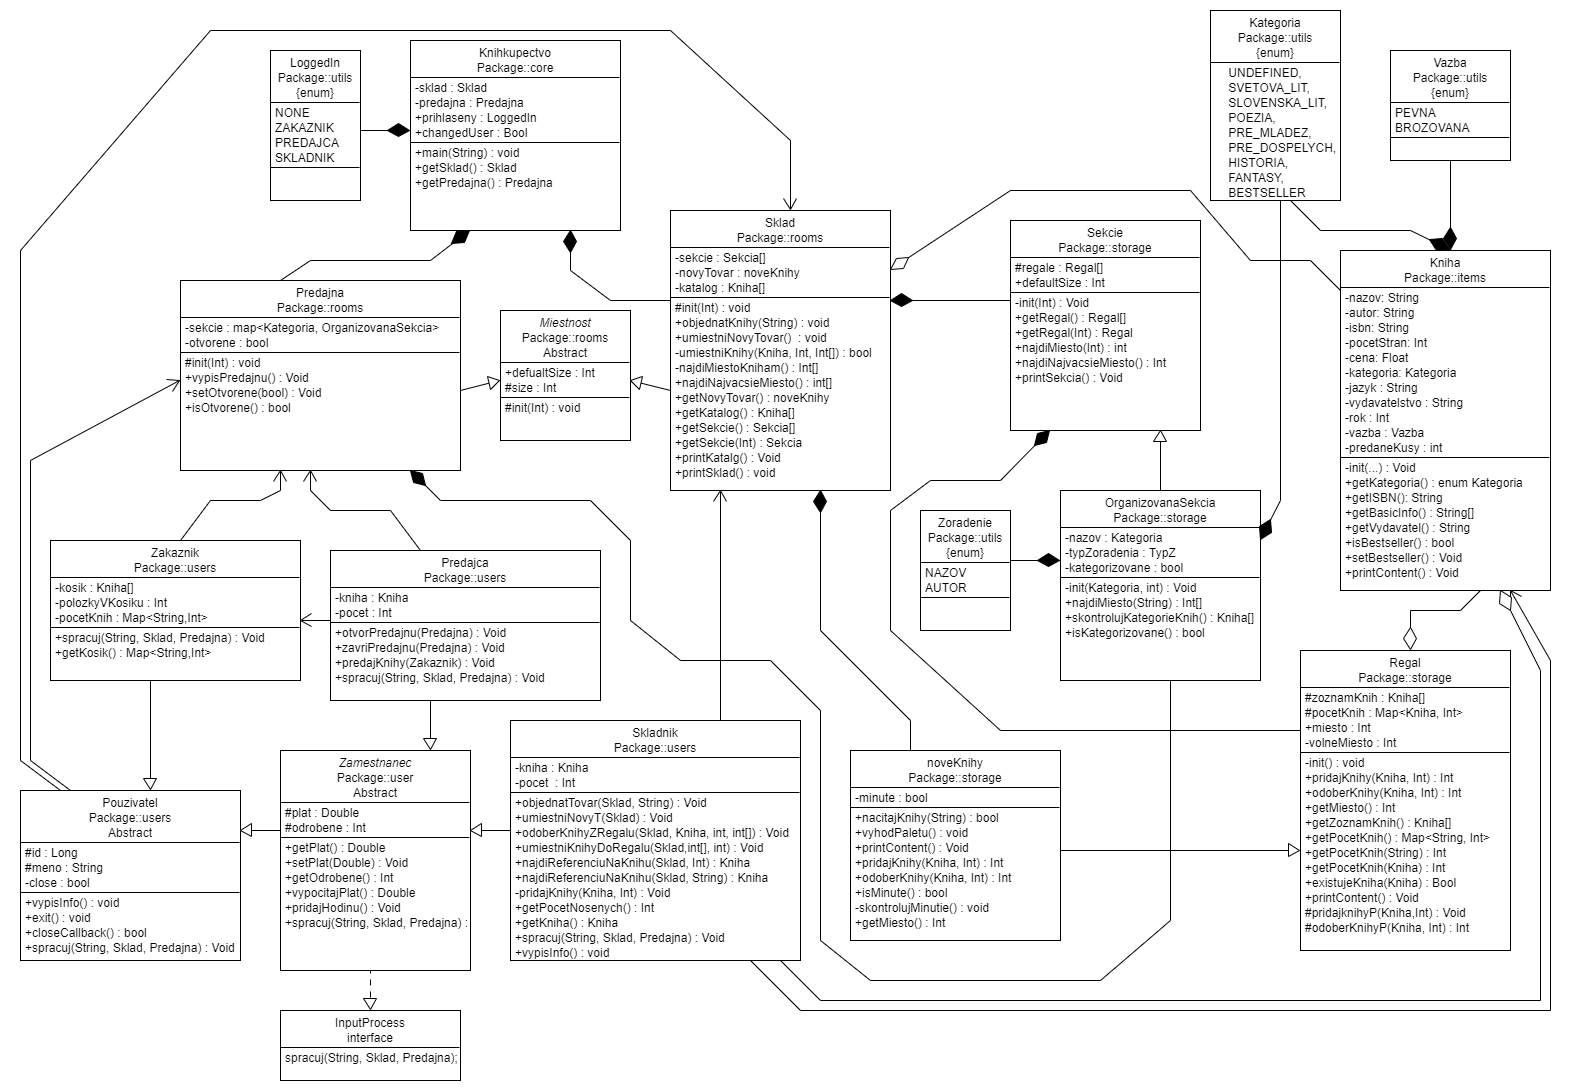
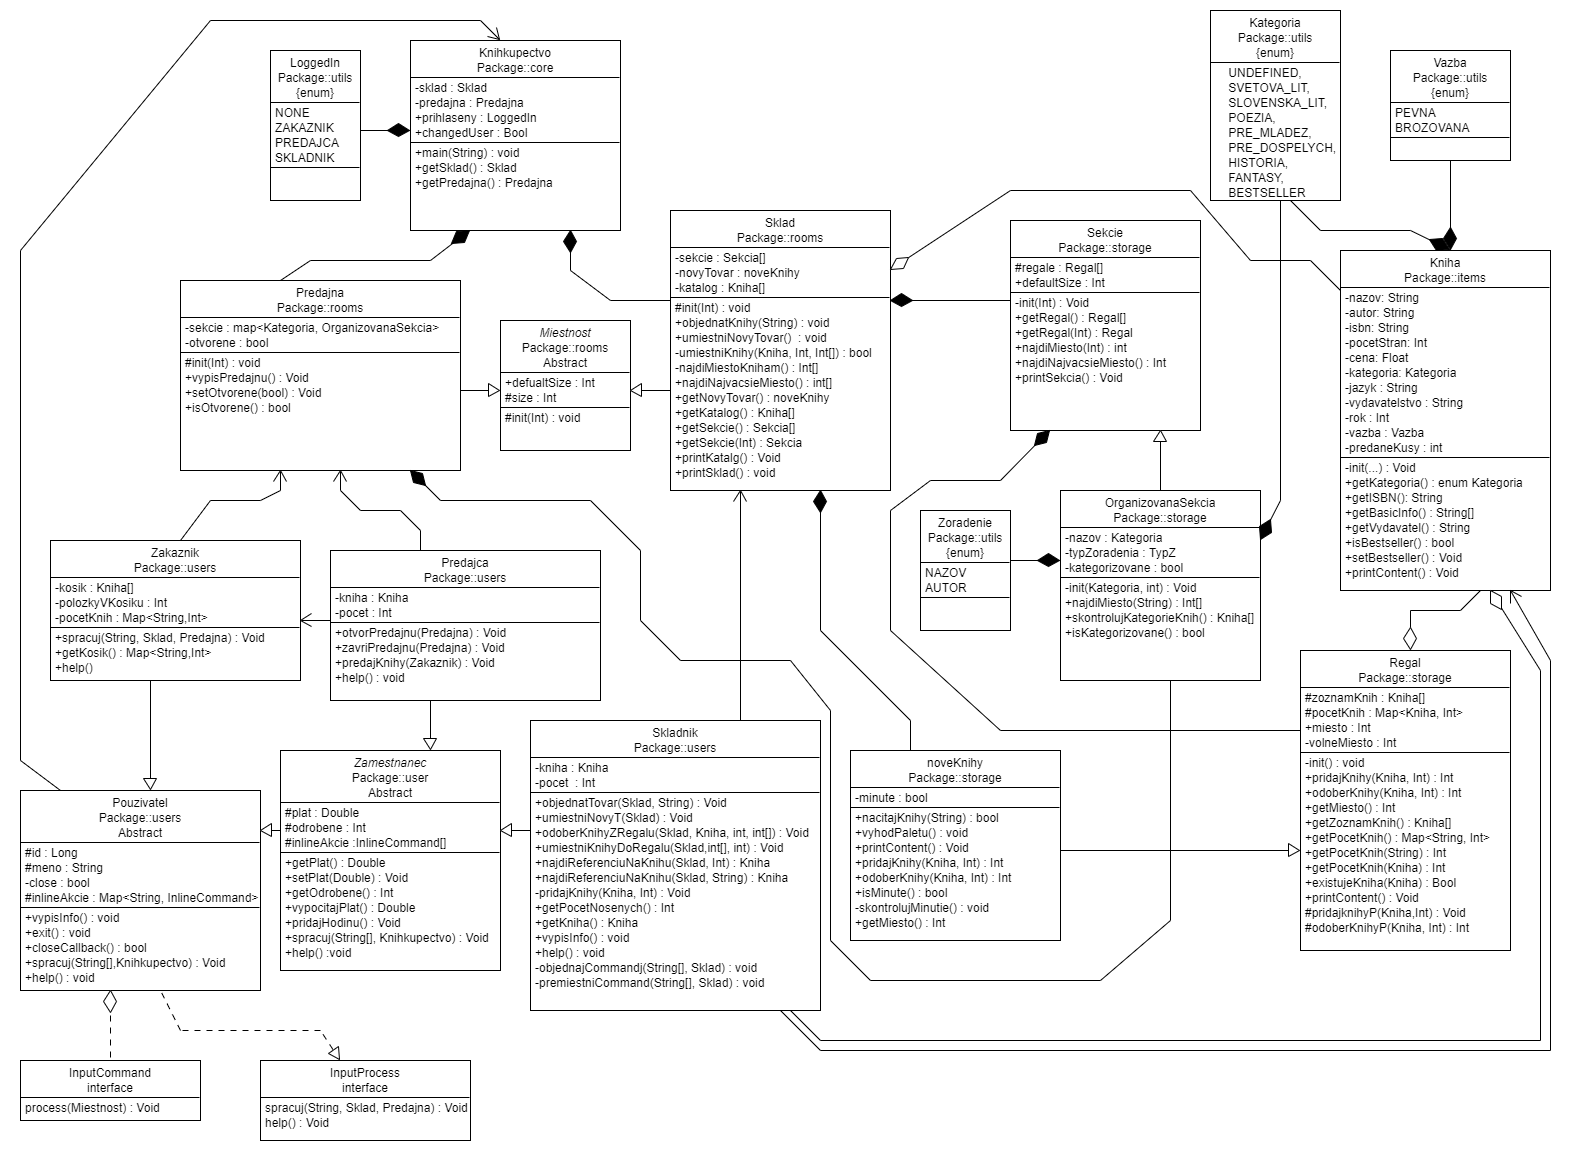
updated

diff --git a/src/junas/robert/minerva/core/users/Predajca.java b/src/junas/robert/minerva/core/users/Predajca.java
@@ -3,6 +3,8 @@ package junas.robert.minerva.core.users;
 import junas.robert.minerva.core.Knihkupectvo;
 import junas.robert.minerva.core.items.Kniha;
 import junas.robert.minerva.core.rooms.Predajna;
+import junas.robert.minerva.core.rooms.Sklad;
+import junas.robert.minerva.core.utils.InlineCommand;
 
 public class Predajca extends Zamestnanec{
     private Kniha kniha;
@@ -16,6 +18,9 @@ public class Predajca extends Zamestnanec{
         inlineAkcie.put("otvor", (args, kh) -> otvorPredajnu(kh.getPredajna()));
         inlineAkcie.put("zavri", (args, kh)-> zavriPredajnu(kh.getPredajna()));
         inlineAkcie.put("predajna", (args, kh) -> kh.getPredajna().vypisPredajnu());
+        inlineAkcie.put("sklad", (args, kh) -> kh.getSklad().printSklad());
+        inlineAkcie.put("predaj", (args,kh)->  predajKnihy(kh.getPredajna().getZakaznik()));
+        inlineAkcie.put("prines", ((args, kh) -> prines(args,kh)));
     }
 
     public void otvorPredajnu(Predajna p){
@@ -27,17 +32,43 @@ public class Predajca extends Zamestnanec{
     }
 
     public void predajKnihy(Zakaznik z) {
-
+        if(z.getKosik().isEmpty()){
+            System.out.println("Zakaznik nema nic v kosiku");
+            return;
+        }
+        for(Kniha k : z.getKosik()){
+            int p = z.getPocetKnih(k.getISBN());
+            k.predaj(p);
+            z.odoberKnihy(k,p);
+            System.out.println("Zakaznik si kupil: " + k.getBasicInfo()[0] + " ["+p+ "] ["+ p*k.getCena()+ "]");
+        }
     }
 
-@Override
+    @Override
     public void help(){
         super.help();
         System.out.println("---Prikazy predajcu---");
         System.out.println("otvor - otvor predajnu");
         System.out.println("zatvor - zavri predajnu");
         System.out.println("predajna - vypis predajnu");
+        System.out.println("sklad - vypis sklad");
+        System.out.println("predaj - preda knihy v kosiku zakaznika");
     }
 
 
+    private void prines(String[] args, Knihkupectvo kh){
+        int[] zober = new int[] {-1,-1};
+        int[] umiestni = new int[] {-1,-1};
+        int p = -1;
+        Kniha k = null;
+        for(String f : args){
+            if(f.contains("i/")){
+                k = najdReferenciuNaKnihu(kh.getSklad(), Integer.parseInt(f.substring(2)));
+            }else if(f.contains("s/")){
+                k = najdReferenciuNaKnihu(kh.getSklad(), f.replaceAll("_", " ").substring(2));
+            }else if(f.contains("/")){
+                p = Integer.parseInt(f.substring(1));
+            }
+        }
+    }
 }

diff --git a/src/junas/robert/minerva/core/users/Skladnik.java b/src/junas/robert/minerva/core/users/Skladnik.java
@@ -17,9 +17,15 @@ public class Skladnik extends Zamestnanec{
 
         inlineAkcie.put("sklad", ((args, kh) -> kh.getSklad().printSklad()));
         inlineAkcie.put("n-umiestni", (args, kh) -> umiestniNovyT(kh.getSklad()));
-        inlineAkcie.put("info-n", (args, kh) -> {if( (kh.getSklad()).getNovyTovar() != null) {  (kh.getSklad()).getNovyTovar().printContent(); }});
+        inlineAkcie.put("info-n", (args, kh) -> {
+            if( (kh.getSklad()).getNovyTovar() != null) {
+                (kh.getSklad()).getNovyTovar().printContent();
+            }});
         inlineAkcie.put("katalog", (args, kh) -> (kh.getSklad()).printKatalog());
-        inlineAkcie.put("objednaj", ((args, kh) -> objednaj(args,kh.getSklad())));
+        inlineAkcie.put("objednaj", ((args, kh) -> {
+            objednaj(args,kh.getSklad());
+            kh.getPredajna().setKatalog(kh.getSklad().getKatalog());
+        }));
         inlineAkcie.put("premiestni", ((args, kh) -> premiestni(args,kh.getSklad())));
 
     }
@@ -65,20 +71,6 @@ public class Skladnik extends Zamestnanec{
         if(this.pocet == 0) kniha = null;
     }
 
-
-    public Kniha najdReferenciuNaKnihu(Sklad s, int i){
-        return s.getKatalog().get(i);
-    }
-
-    public Kniha najdReferenciuNaKnihu(Sklad s, String id){
-        for(Kniha kp : s.getKatalog()){
-            if(kp.getISBN().toLowerCase().equals(id) || kp.getBasicInfo()[0].toLowerCase().equals(id)){
-                return kp;
-                }
-        }
-        return null;
-    }
-
     private void pridajKnihy(Kniha k,int pocet){
         kniha = k;
         this.pocet = pocet;
@@ -109,7 +101,6 @@ public class Skladnik extends Zamestnanec{
         System.out.println("n-umiestni - automacticky najde a umiestni knihy na miesta kde sa zmestia");
         System.out.println("info-n - informacie o novom tovare");
         System.out.println("sklad - vypis cely sklad");
-        System.out.println("katalog - vypise vsetky knihy ktore sa nachadzaju/li v sklade");
         System.out.println("premiestni n/ref /pocet //zX-X //uX-X  - s/ref = nazov/isbn/katalogove cislo knihy\n " +
                 "\t\t\t\t\t\t\t\t\t\t\t [s/ = nazov/isbn [medzery == _]; i/ = katalogove cislo;\n" +
                 "\t\t\t\t\t\t\t\t\t\t\t moze byt null ak mas knihu v inventari] \n" +

diff --git a/src/junas/robert/minerva/core/users/Pouzivatel.java b/src/junas/robert/minerva/core/users/Pouzivatel.java
@@ -4,6 +4,8 @@ import junas.robert.minerva.core.Knihkupectvo;
 import junas.robert.minerva.core.utils.InlineCommand;
 import junas.robert.minerva.core.utils.InputProcess;
 import junas.robert.minerva.core.utils.LoggedIn;
+
+import java.util.Arrays;
 import java.util.HashMap;
 
 public abstract class Pouzivatel implements InputProcess {
@@ -21,6 +23,7 @@ public abstract class Pouzivatel implements InputProcess {
         inlineAkcie.put("exit", (args, kh) -> exit());
         inlineAkcie.put("logout", (args, kh) -> Knihkupectvo.prihlaseny = LoggedIn.NONE);
         inlineAkcie.put("info-me", (args, kh) -> vypisInfo());
+        inlineAkcie.put("katalog", (args,kh) -> kh.getSklad().printKatalog());
     };
 
 
@@ -43,6 +46,7 @@ public abstract class Pouzivatel implements InputProcess {
     public void help(){
         System.out.println("---Vseobecne prikazy---");
         System.out.println("info-me - informacie o mne");
+        System.out.println("katalog - vypise katalog predajne");
         System.out.println("logout - odhlasit sa");
         System.out.println("help - vypis pomocky");
         System.out.println("exit - vypni system");
@@ -50,8 +54,16 @@ public abstract class Pouzivatel implements InputProcess {
 
     @Override
     public void spracuj(String[] s, Knihkupectvo kh){
-            if(inlineAkcie.containsKey(s[0])) {
-                inlineAkcie.get(s[0]).process(s,kh);
+        int index = 0;
+            while(index < s.length) {
+                if (inlineAkcie.containsKey(s[index])) {
+                    inlineAkcie.get(s[index]).process(s, kh);
+                }
+                int k;
+                for (k = index + 1; k < s.length; k++) {
+                    if (s[k].equals("|")) break;
+                }
+                index = k + 1;
             }
     }
 

diff --git a/src/junas/robert/minerva/core/users/Zakaznik.java b/src/junas/robert/minerva/core/users/Zakaznik.java
@@ -8,14 +8,14 @@ import java.util.HashMap;
 
 public class Zakaznik extends Pouzivatel{
     private ArrayList<Kniha> kosik;
-    private int polozkyVKosiku;
     private HashMap<String,Integer> pocetKnih;
 
     public Zakaznik(){
         super("Guest", 0);
         kosik = new ArrayList<Kniha>();
-        polozkyVKosiku = 0;
         pocetKnih = new HashMap<String,Integer>();
+
+        inlineAkcie.put("kosik", (args, kh) -> vypisKosik());
     }
 
     @Override
@@ -23,14 +23,34 @@ public class Zakaznik extends Pouzivatel{
         super.help();
         System.out.println("---Zakaznicke prikazy---");
         System.out.println("kosik - vypise knihy v kosiku");
-        System.out.println("dostupnost n/s - zisti ci je kniha dostupna []");
     }
 
-
-    @Override
-    public void spracuj(String[] s, Knihkupectvo kh){
-        super.spracuj(s, kh);
+    public void vypisKosik(){
+        if(kosik.isEmpty()) {
+            System.out.println("kosik je prazdny");
+            return;
+        }
+        for(int i = 0; i < kosik.size(); i++){
+            kosik.get(i).printContent();
+            System.out.print(" [" + pocetKnih.get(kosik.get(i).getISBN()) + "]\n");
+        }
     }
 
     public ArrayList<Kniha> getKosik() { return kosik; }
+    public int getPocetKnih(String isbn) {return pocetKnih.get(isbn);}
+
+    public void odoberKnihy(Kniha k, int pocet) {
+        int p = pocetKnih.get(k.getISBN());
+        if(pocet >= p) {
+            kosik.remove(k);
+            pocetKnih.remove(k.getISBN());
+        }else {
+            pocetKnih.replace(k.getISBN(),p-pocet);
+        }
+    }
+
+    public void pridajKnihy(Kniha k, int pocet){
+        kosik.add(k);
+        pocetKnih.put(k.getISBN(),pocet);
+    }
 }

diff --git a/src/junas/robert/minerva/core/rooms/Predajna.java b/src/junas/robert/minerva/core/rooms/Predajna.java
@@ -4,8 +4,10 @@ import junas.robert.minerva.core.items.Kniha;
 import junas.robert.minerva.core.storage.OrganizovanaSekcia;
 import junas.robert.minerva.core.storage.Regal;
 import junas.robert.minerva.core.storage.Sekcia;
+import junas.robert.minerva.core.users.Zakaznik;
 import junas.robert.minerva.core.utils.Kategoria;
 
+import java.util.ArrayList;
 import java.util.HashMap;
 import java.util.Map;
 import java.util.function.BiConsumer;
@@ -13,6 +15,9 @@ import java.util.function.BiConsumer;
 public class Predajna extends Miestnost {
     private HashMap<Kategoria, OrganizovanaSekcia> sekcie;
     private boolean otvorene;
+    private transient Zakaznik zakaznik;
+    private ArrayList<Kniha> katalog;
+
 
     public Predajna(){
         super();
@@ -41,6 +46,7 @@ public class Predajna extends Miestnost {
 
     public void setOtvorene(boolean b) {
         otvorene = b;
+        removeZakaznik();
     }
 
     public boolean isOtvorene(){
@@ -56,5 +62,21 @@ public class Predajna extends Miestnost {
             }
     }
 
+    public void setZakaznik(Zakaznik z ){ zakaznik = z; }
 
+    public void removeZakaznik(){
+        if(!otvorene)
+            zakaznik = null;
+    }
+
+    public Zakaznik getZakaznik(){ return  zakaznik;}
+
+
+    public ArrayList<Kniha> getKatalog() {
+        return katalog;
+    }
+
+    public void setKatalog(ArrayList<Kniha> katalog) {
+        this.katalog = katalog;
+    }
 }

diff --git a/src/junas/robert/minerva/core/Knihkupectvo.java b/src/junas/robert/minerva/core/Knihkupectvo.java
@@ -1,5 +1,6 @@
 package junas.robert.minerva.core;
 
+import junas.robert.minerva.core.items.Kniha;
 import junas.robert.minerva.core.rooms.Predajna;
 import junas.robert.minerva.core.rooms.Sklad;
 import junas.robert.minerva.core.users.Pouzivatel;
@@ -9,6 +10,8 @@ import junas.robert.minerva.core.users.Zakaznik;
 import junas.robert.minerva.core.utils.LoggedIn;
 
 import java.io.*;
+import java.util.ArrayList;
+import java.util.List;
 import java.util.Scanner;
 
 public class Knihkupectvo implements java.io.Serializable{
@@ -73,11 +76,13 @@ public class Knihkupectvo implements java.io.Serializable{
                         break;
                     case ZAKAZNIK:
                         //upcasting
-                        p = zakaznik;
-                        changedUser = false;
                         if(!knihkupectvo.predajna.isOtvorene()){
                             System.out.println("Predajna je zavreta");
                             prihlaseny = LoggedIn.NONE;
+                        }else {
+                            p = zakaznik;
+                            knihkupectvo.getPredajna().setZakaznik(zakaznik);
+                            changedUser = false;
                         }
                         break;
                     case SKLADNIK:

diff --git a/src/junas/robert/minerva/core/users/Zamestnanec.java b/src/junas/robert/minerva/core/users/Zamestnanec.java
@@ -1,6 +1,8 @@
 package junas.robert.minerva.core.users;
 
 import junas.robert.minerva.core.Knihkupectvo;
+import junas.robert.minerva.core.items.Kniha;
+import junas.robert.minerva.core.rooms.Sklad;
 
 abstract class Zamestnanec extends Pouzivatel{
     protected double plat;
@@ -43,5 +45,20 @@ abstract class Zamestnanec extends Pouzivatel{
     public void spracuj(String[] s, Knihkupectvo kh){
         super.spracuj(s, kh);
         pridajHodinu();
+    }
+
+
+
+    public Kniha najdReferenciuNaKnihu(Sklad s, int i){
+        return s.getKatalog().get(i);
+    }
+
+    public Kniha najdReferenciuNaKnihu(Sklad s, String id){
+        for(Kniha kp : s.getKatalog()){
+            if(kp.getISBN().toLowerCase().equals(id) || kp.getBasicInfo()[0].toLowerCase().equals(id)){
+                return kp;
+            }
+        }
+        return null;
     }
 }

diff --git a/src/junas/robert/minerva/core/items/Kniha.java b/src/junas/robert/minerva/core/items/Kniha.java
@@ -50,10 +50,12 @@ public class Kniha implements java.io.Serializable{
     public boolean isBestseller(){
         return kategoria == Kategoria.BESTSELLER;
     }
+    public float getCena(){ return cena;}
 
     public void setBestseller(){
         kategoria = Kategoria.BESTSELLER;
     }
+    public void predaj(int pocet) { this.predaneKusy+= pocet;}
 
     public void printContent() {
         System.out.print("\t"+ kategoria.toString() +": ("+jazyk+") "+ autor + ": " +
